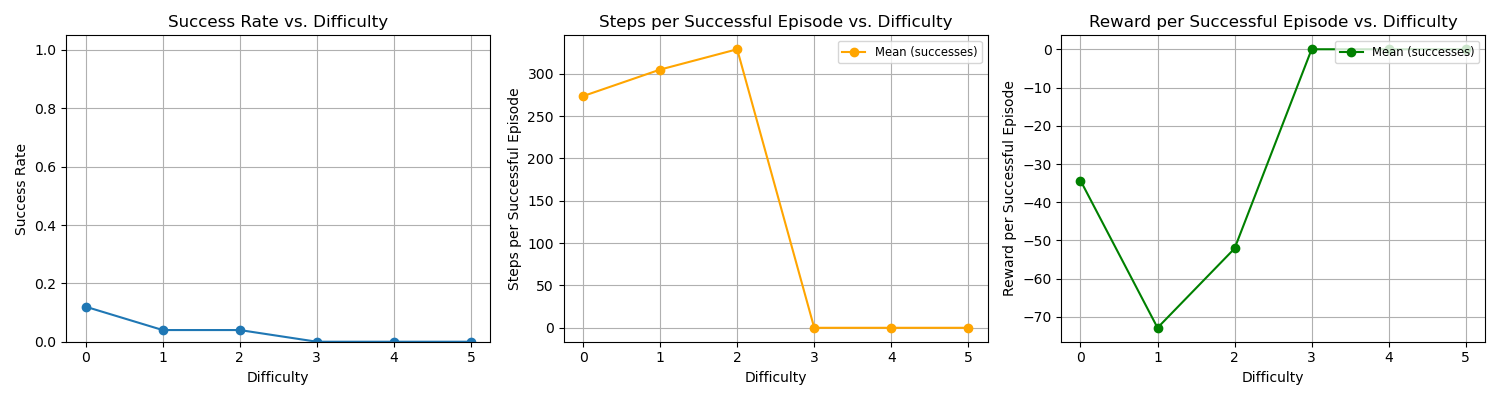
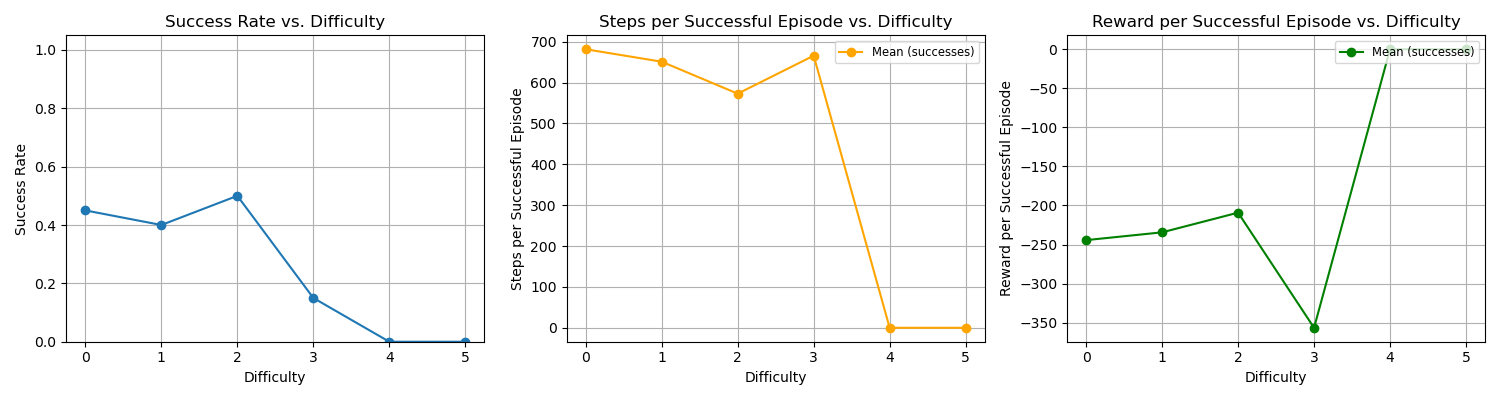
easier hyper-parameter settings

diff --git a/evaluate_trained_dqn_niek.py b/evaluate_trained_dqn_niek.py
@@ -21,7 +21,7 @@ RESULTS_TXT = RESULTS_DIR / "stochasticity_results.txt"
 
 # note: change environment to experiment=True to run rewards
 
-def run_episode(env, agent, name_exp, delivery_zones=None, max_steps=350, no_gui=True, agent_start_pos=False):
+def run_episode(env, agent, name_exp, delivery_zones=None, max_steps=1000, no_gui=True, agent_start_pos=False):
     if name_exp != "target_distance":
         state, _ = env.reset(no_gui=no_gui)
     else:
@@ -326,7 +326,7 @@ def evaluate(model_path: Path):
     # agent = PPOAgent(state_size=12, action_size=5, seed=12, num_envs=1)
     # agent.load(f"models/best_ppo_yet.pth")
     # waiting for a ppo.
-    reps = 50
+    reps = 20
     print("Agent Loaded Successfully!")
     experiment_stochasticity(agent, reps=reps)
     print("Experiment Stochasticity Finished!")

diff --git a/world/environment.py b/world/environment.py
@@ -52,7 +52,7 @@ class Environment(gym.Env):
         self.orientation = 0
         self.agent_angle = 45  # the agents angle step-size
         self.max_range = 5 # Maximum range for sensors
-        self.battery_drain_per_step = 0.0  # In reset, the battery is always reset to 100%
+        self.battery_drain_per_step = 0.25  # In reset, the battery is always reset to 100%
         self.battery_value_reward_charging = 50  # From which battery level to reward the agent for going to the charging station.
 
         # Define the layout based on the image
